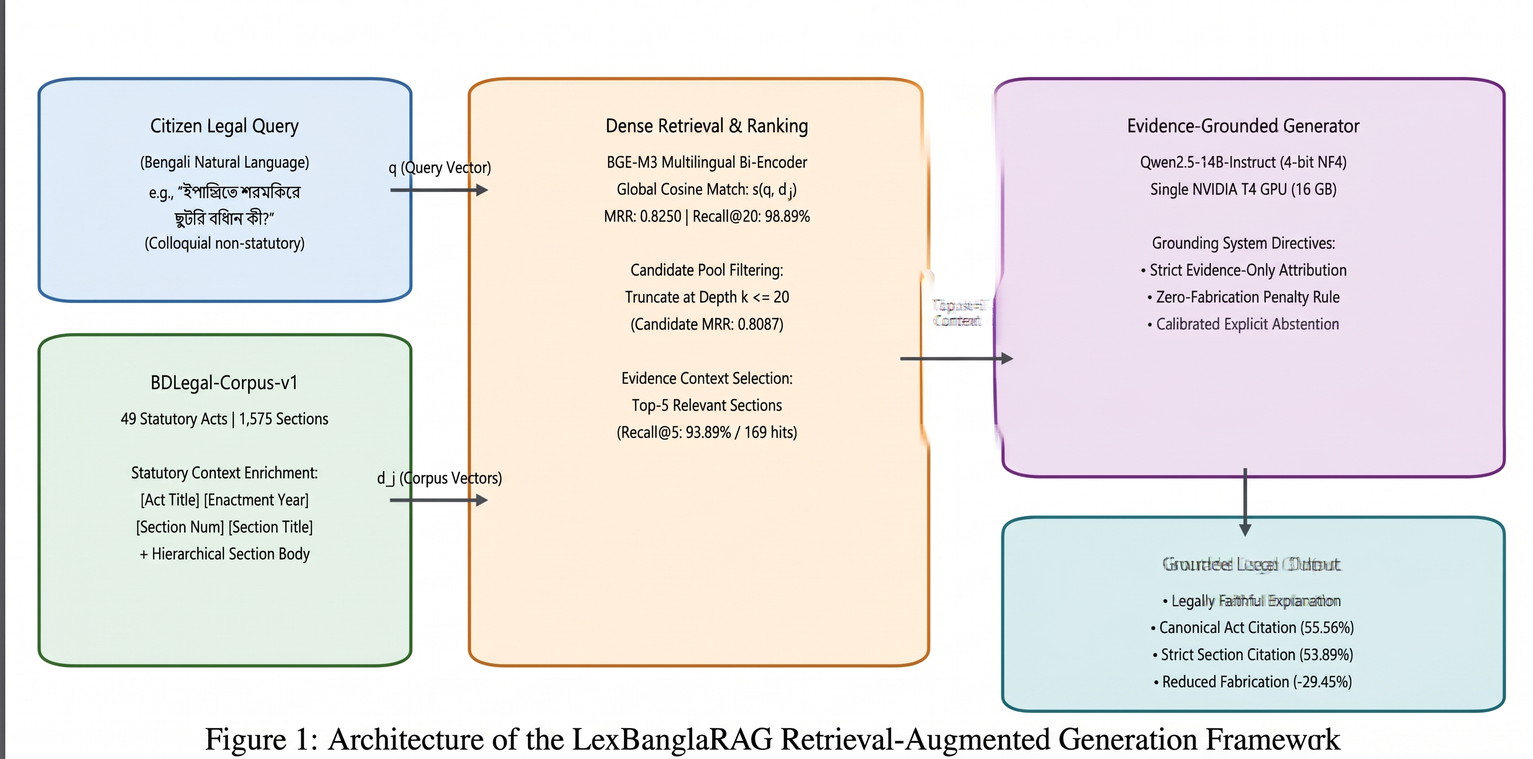
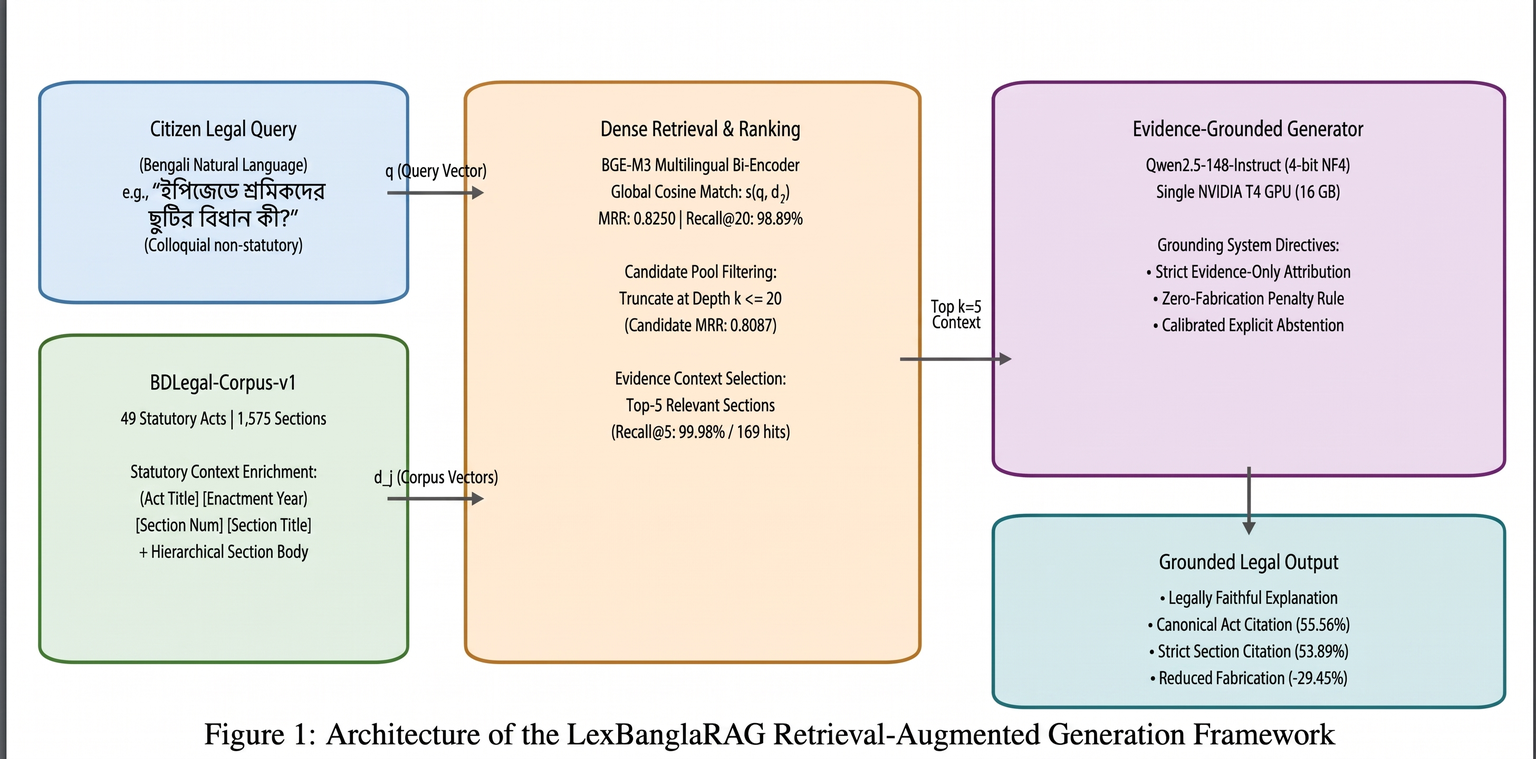
Update Figure 1 architecture diagram, delete redundant figure, and embed figures in README and App

diff --git a/app.py b/app.py
@@ -654,6 +654,9 @@ with tab3:
 # ------------------------------------------------------------------------------
 with tab4:
     st.markdown("### ℹ সিস্টেম আর্কিটেকচার ও রিসার্চ মেথডোলজি (Thesis Chapter 3)")
+    fig1_path = os.path.join(os.path.dirname(__file__), "figures", "fig1_system_architecture.jpeg")
+    if os.path.exists(fig1_path):
+        st.image(fig1_path, caption="Figure 1: Architecture of the LexBanglaRAG Retrieval-Augmented Generation Framework", use_container_width=True)
     st.markdown("""
     #### 🏗 ত্রি-স্তর বিশিষ্ট LexBanglaRAG পাইপলাইন:
     1. **Statutory Context Enrichment (SCE):**

diff --git a/README.md b/README.md
@@ -89,6 +89,13 @@ Simply double-click the **`run_demo.bat`** file in the project folder. It will a
 - **Statutory Context Enrichment** boosts dense retrieval MRR to **0.8087** (Recall@5: 93.89%, Recall@20: 98.33%).
 - Evidence grounding slashes pure statutory fabrication from 73.89% down to 44.44% ($p < 10^{-12}$).
 
+### 📈 Empirical Research Visualizations
+
+| Figure 2: Cross-Scale Generative Performance | Figure 3: Four-Tier Hallucination Taxonomy |
+| :---: | :---: |
+| ![Figure 2: Generation Scaling](figures/fig2_generation_scaling_comparison.png) | ![Figure 3: Hallucination Breakdown](figures/fig3_hallucination_taxonomy_breakdown.png) |
+| *Citation accuracies & Token F1 across models* | *Evidence grounding suppresses pure statutory fabrication* |
+
 ---
 
 ## 🎓 Academic Affiliation
